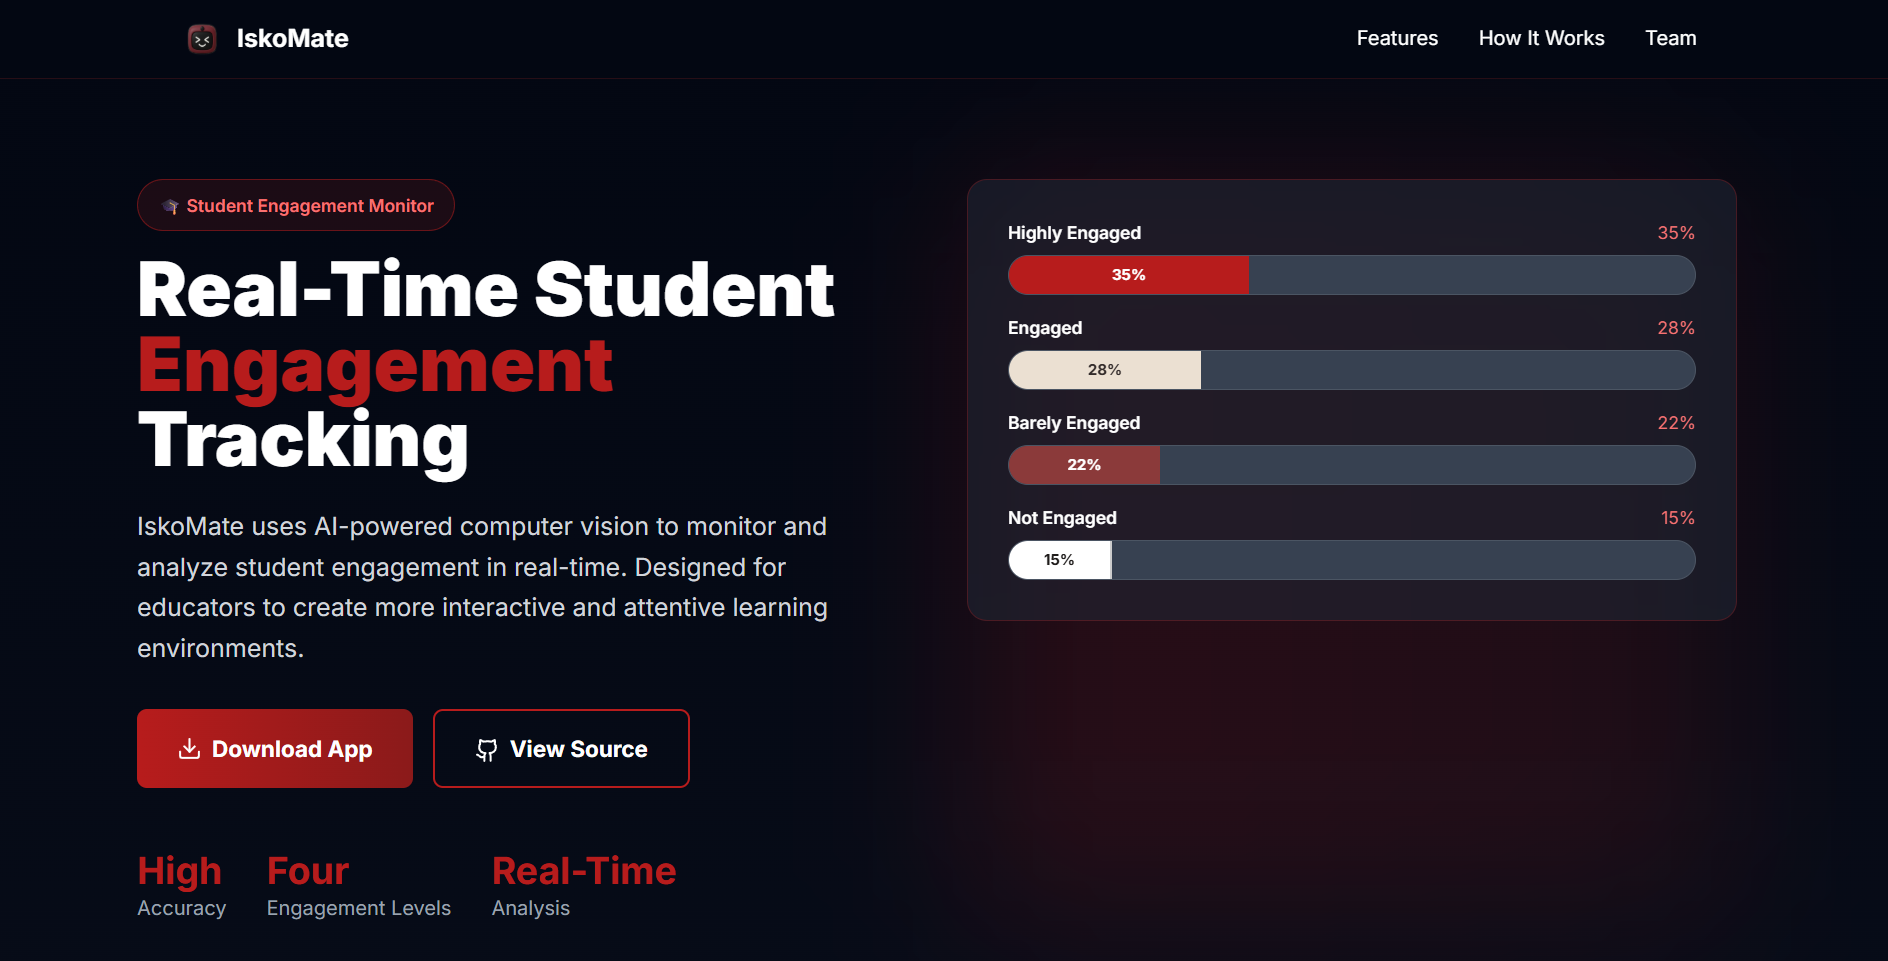
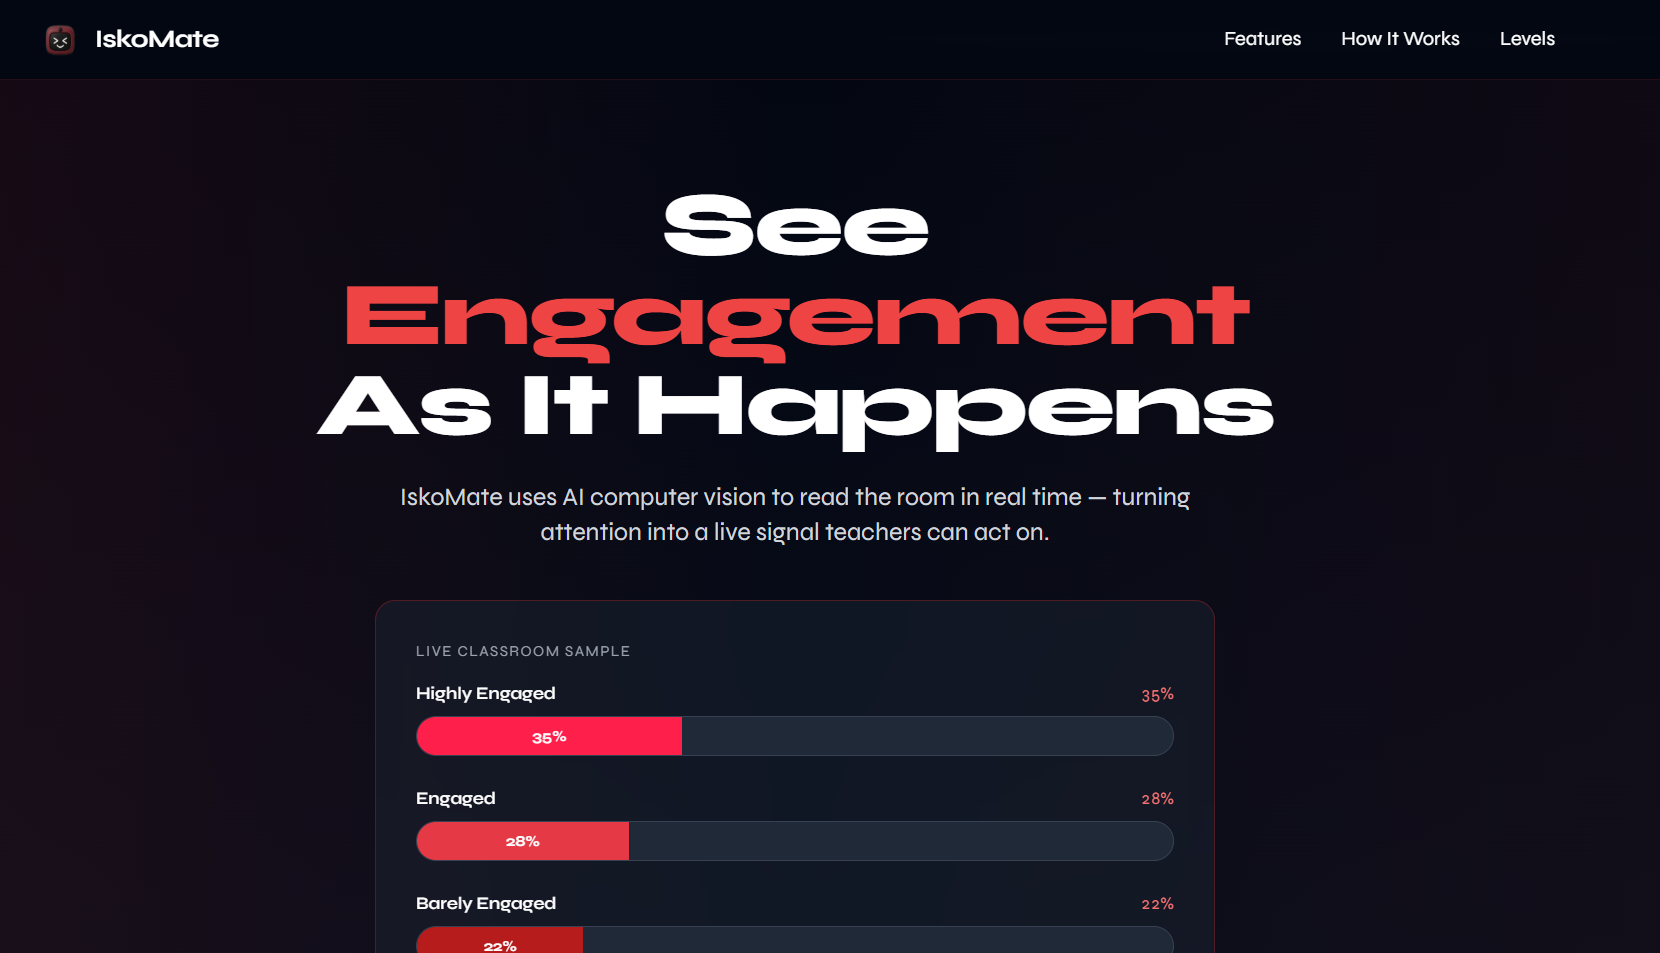
update projs

diff --git a/src/App.jsx b/src/App.jsx
@@ -603,10 +603,10 @@ function AboutContent({ handleCopyEmail }) {
           {/* Bio Text (Left) */}
           <div className="flex-1 flex flex-col justify-center">
             <h1 className="text-5xl lg:text-7xl font-bold font-sans mb-8 leading-tight">
-              Engineering <br /> <span className="text-neon">at the edge.</span>
+              Engineering <br /> <span className="text-neon">at edge.</span>
             </h1>
             <p className="text-gray-400 text-lg leading-relaxed mb-6">
-              I'm obsessed with the challenge of building things that work seamlessly. From crafting responsive web apps to training computer vision models to designing mobile-first experiences. I love the entire journey from concept to deployment. Currently focused on AI engineering and cloud infrastructure.
+              I am a computer engineering student focused on AI engineering, machine learning, automation, and cloud infrastructure. I build seamless applications that integrate computer vision models, cloud technologies, and modern web development, managing the entire lifecycle from concept to deployment. My projects span AI-powered systems, automated workflows, responsive full-stack applications, and mobile-first experiences.
             </p>
             <div className="pt-4">
               <a 
